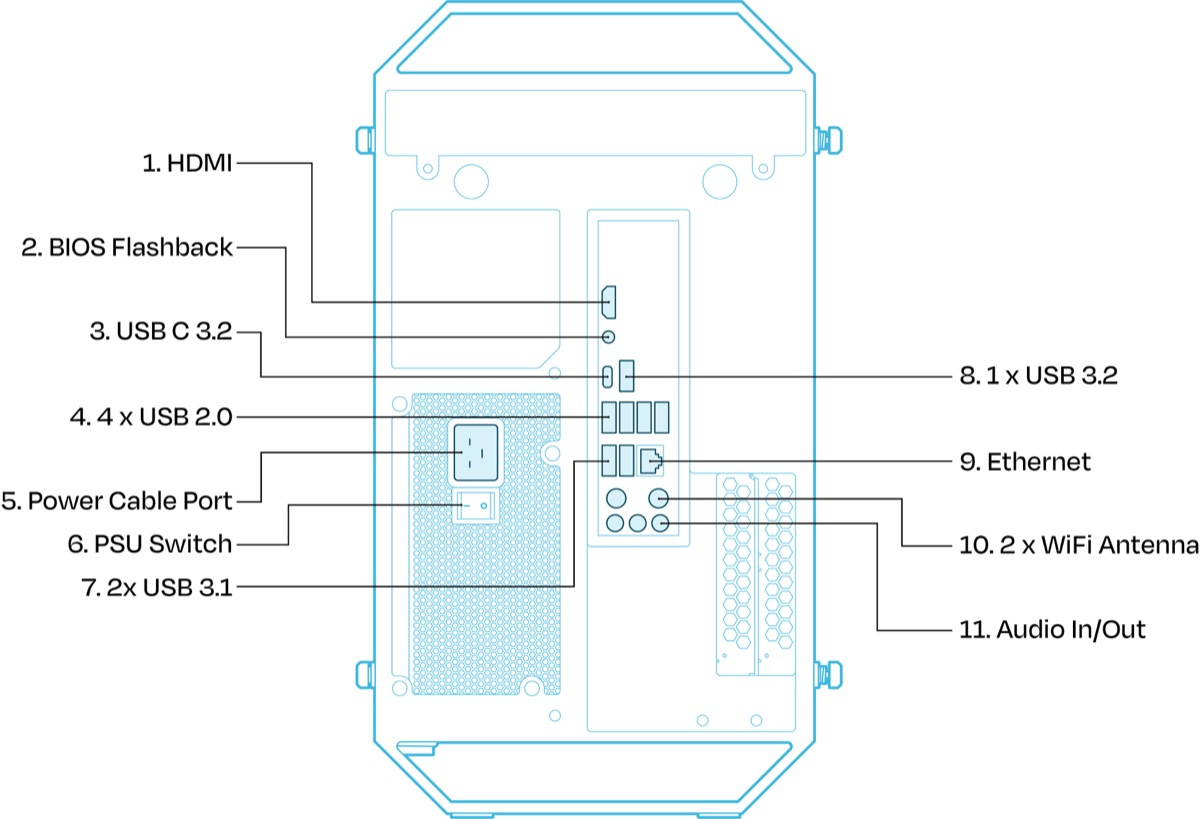
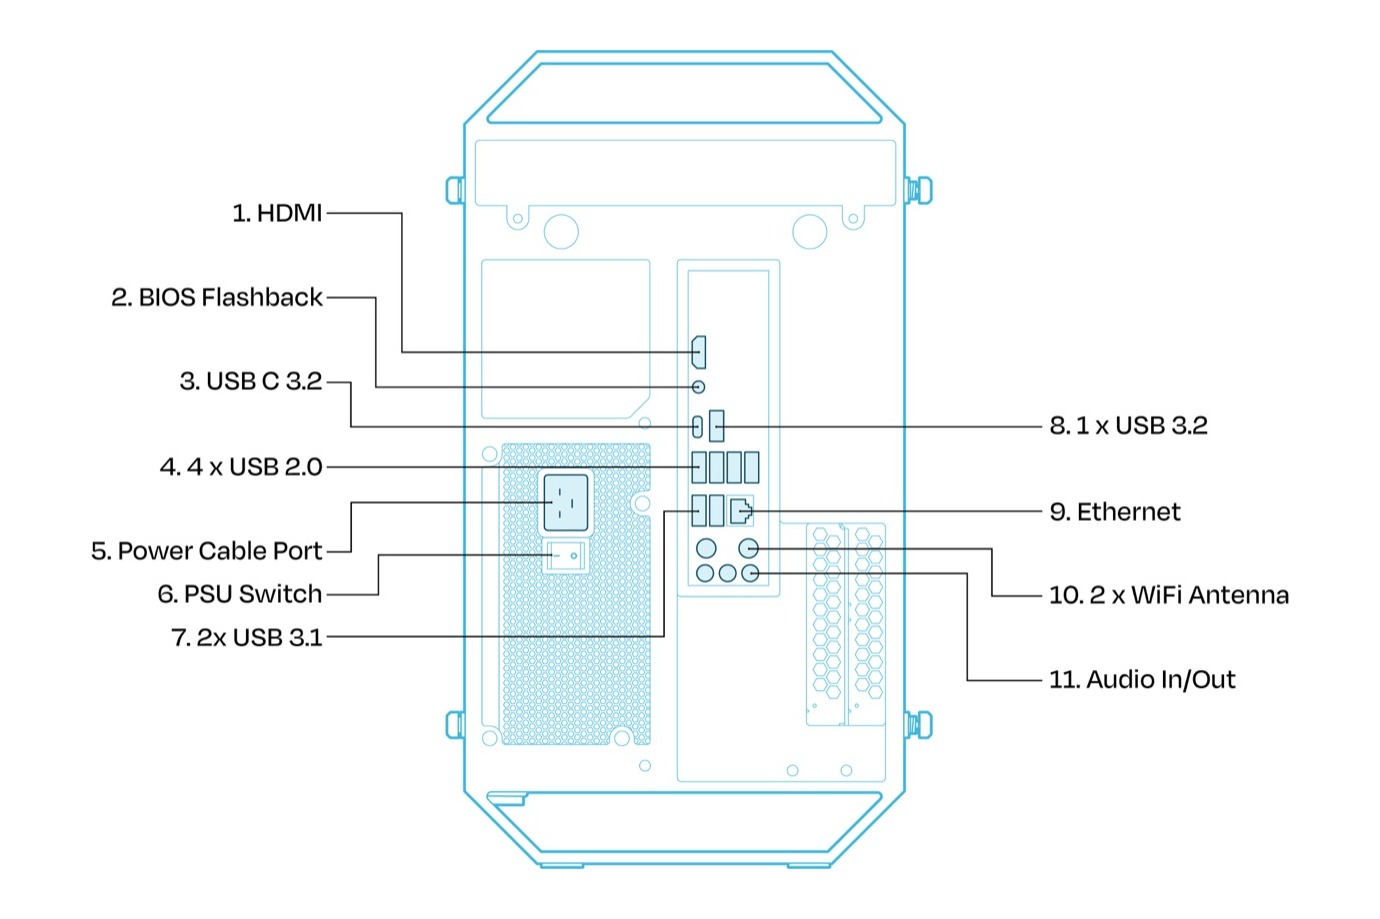
slight image updates

Changed region(s): [[0.0, 0.0, 1.0, 1.0], [0.1233, 0.1832, 0.2775, 0.2442]]

diff --git a/core/systems/quietbox/quietbox-bh-2/setup.md b/core/systems/quietbox/quietbox-bh-2/setup.md
@@ -29,17 +29,25 @@ myst:
   font-weight: 700;
 }
 
-/* Figures: centered, softly framed */
+/* Figures: left-aligned with the text, softly framed */
 .rst-content div.figure,
 .rst-content figure {
-  margin: 1.6rem auto;
-  text-align: center;
+  margin: 1.6rem 0;
+  text-align: left;
 }
 .rst-content div.figure img,
 .rst-content figure img {
   border: 1px solid #e7e4f0;
   border-radius: 8px;
   box-shadow: 0 4px 14px rgba(38, 38, 46, 0.08);
+}
+
+/* Space the rear-view diagram so callout labels aren't flush with the frame */
+.rst-content img.qb2-rear-view {
+  padding: 2.75rem 3.5rem;
+  background: #fff;
+  box-sizing: border-box;
+  margin: 2rem 0;
 }
 
 /* Quieter horizontal rules */
@@ -135,6 +143,7 @@ Note: Only use certified HDMI cables with the TT-QuietBox 2. Using non-certified
 
 ```{figure} ./qb2-rear-view.jpg
 :width: 60%
+:class: qb2-rear-view
 ```
 
 1. **Connect the power cable.** Connect the provided C19 power cable to the workstation and then to a dedicated power outlet. See the Electrical Safety section for the full list of power requirements. 
